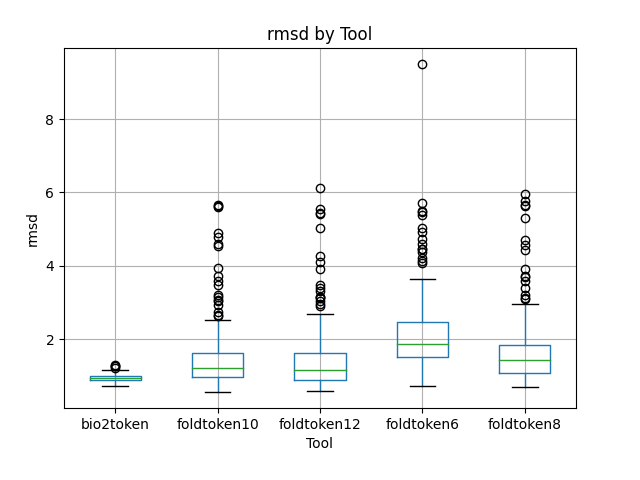
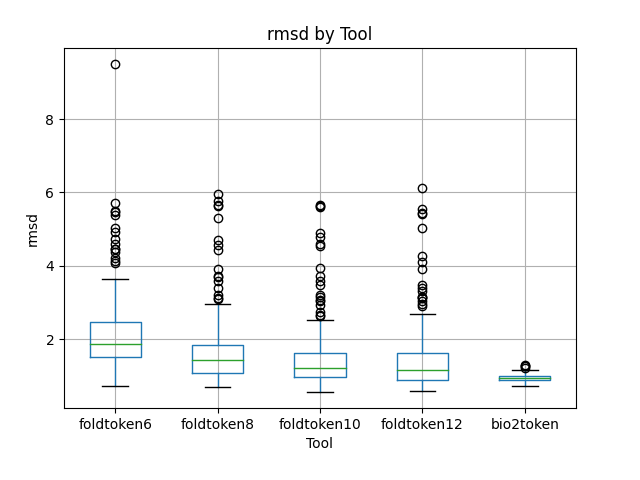
updated plots

diff --git a/tokenizer_benchmark/plot_results.py b/tokenizer_benchmark/plot_results.py
@@ -58,6 +58,16 @@ def main():
     bio2token_df = get_bio2token_data()
     foldtoken_df = get_foldtoken_data()
     tokenizer_df = pd.concat([bio2token_df, foldtoken_df], ignore_index=True)
+
+    # Define custom tool order and convert to categorical
+    tool_order = ['foldtoken6', 'foldtoken8', 'foldtoken10', 'foldtoken12', 'bio2token']
+    tokenizer_df['tool'] = pd.Categorical(
+        tokenizer_df['tool'],
+        categories=tool_order,
+        ordered=True
+    )
+    tokenizer_df = tokenizer_df.sort_values('tool')  # Optional but ensures consistent ordering
+
     boxplot(tokenizer_df, "us_tmscore", "tokenizer_benchmark/plots/tmscore_boxplot_bio2token.png")
     boxplot(tokenizer_df, "f_tmscore", "tokenizer_benchmark/plots/tmscore_fs_boxplot_bio2token.png")
     boxplot(tokenizer_df, "rmsd", "tokenizer_benchmark/plots/rmsd_boxplot_bio2token.png")
